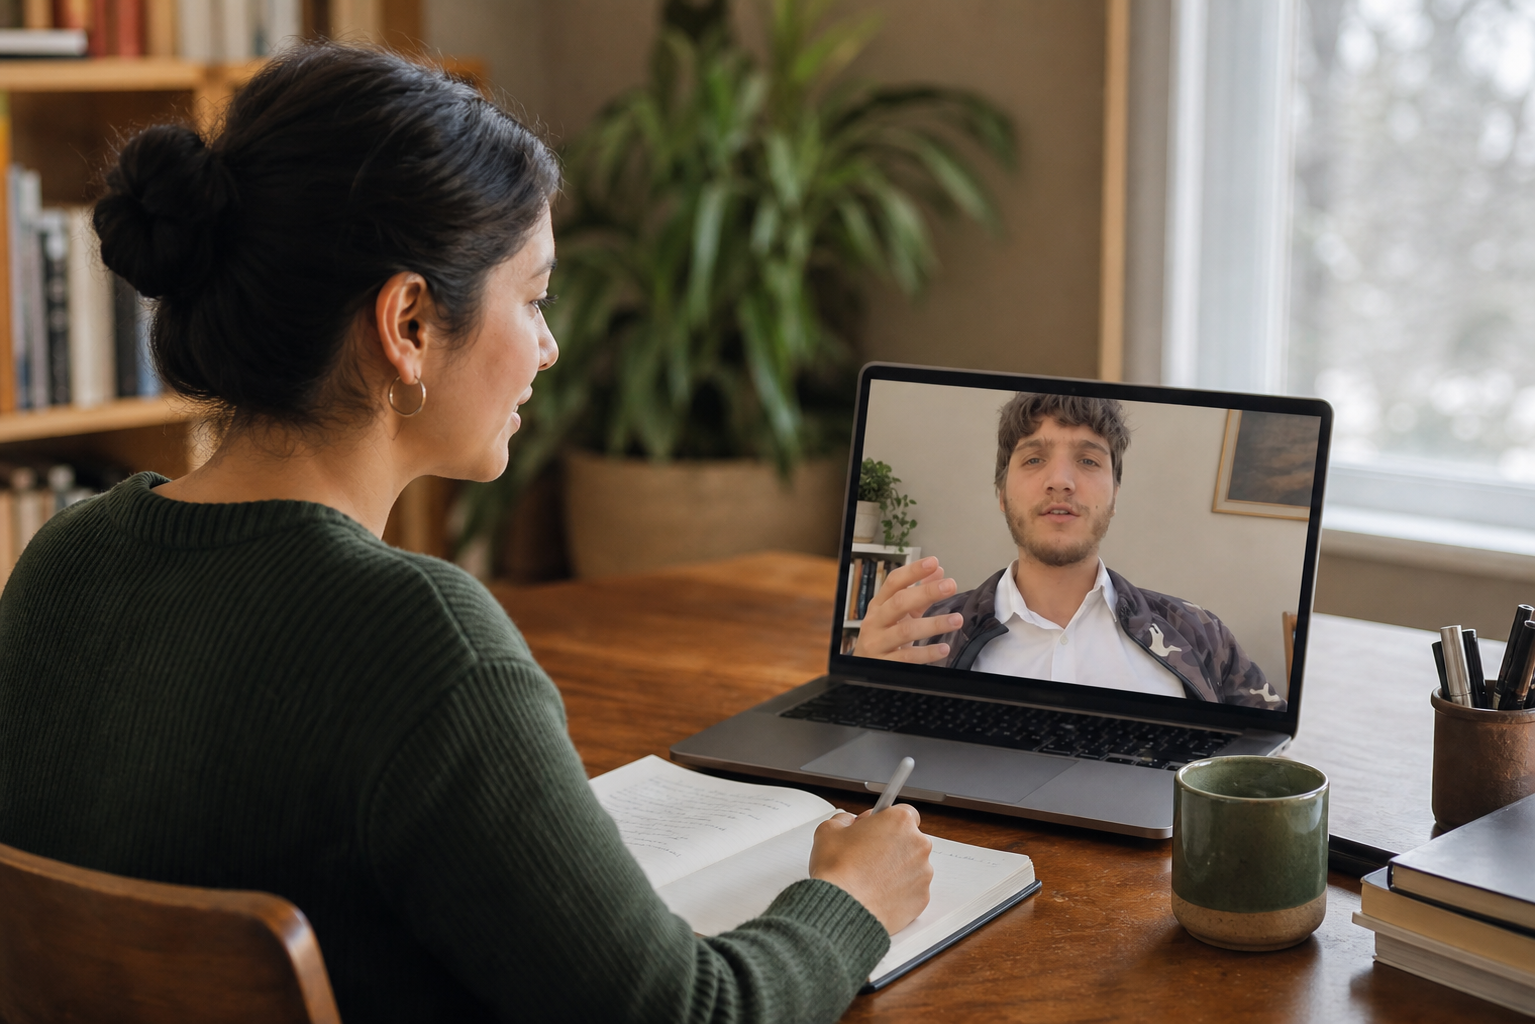
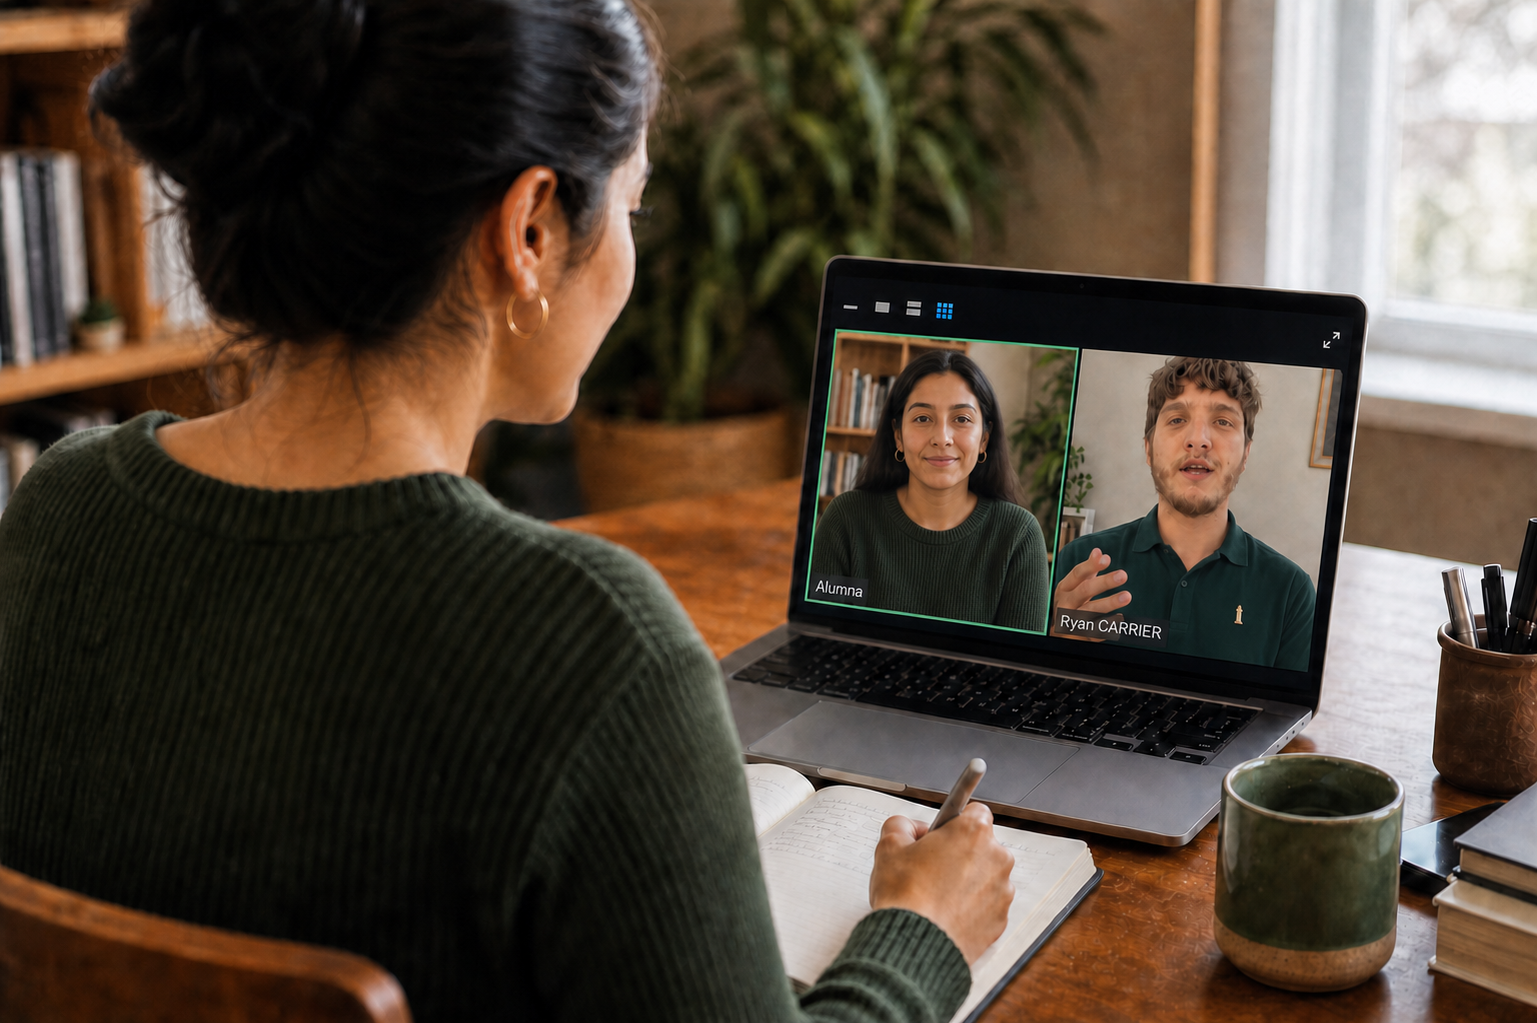
Update live lesson hero image

diff --git a/pathway-v2.css b/pathway-v2.css
@@ -248,7 +248,7 @@ button { font: inherit; }
 .experience-card h3 { max-width: 680px; margin: auto 0 .55rem; font-family: var(--font-display); font-size: clamp(1.55rem, 2.8vw, 2.9rem); font-weight: 600; line-height: .98; letter-spacing: -.04em; }
 .experience-card p { max-width: 520px; margin: 0; font-size: .82rem; line-height: 1.55; opacity: .72; }
 .experience-main { position: relative; isolation: isolate; overflow: hidden; grid-column: span 7; grid-row: span 2; background: var(--mint); }
-.experience-main::before { content: ""; position: absolute; z-index: -1; inset: 0 0 0 42%; background: url("assets/pathway-live-class-teacher.png") 55% center / cover no-repeat; opacity: .65; -webkit-mask-image: linear-gradient(90deg, transparent, #000 32%); mask-image: linear-gradient(90deg, transparent, #000 32%); }
+.experience-main::before { content: ""; position: absolute; z-index: -1; inset: 0 0 0 42%; background: url("assets/pathway-live-class-teacher.png?v=20260815-live-class-grid") 55% center / cover no-repeat; opacity: .65; -webkit-mask-image: linear-gradient(90deg, transparent, #000 32%); mask-image: linear-gradient(90deg, transparent, #000 32%); }
 .experience-main h3, .experience-main p { max-width: 62%; }
 .experience-coral { grid-column: span 5; background: var(--coral); }
 .experience-lime { grid-column: span 5; background: var(--lime); }

diff --git a/index-v2.html b/index-v2.html
@@ -18,7 +18,7 @@
   <link rel="preconnect" href="https://fonts.googleapis.com">
   <link rel="preconnect" href="https://fonts.gstatic.com" crossorigin>
   <link href="https://fonts.googleapis.com/css2?family=DM+Sans:wght@400;500;600;700&family=Outfit:wght@400;500;600;700&display=swap" rel="stylesheet">
-  <link rel="stylesheet" href="pathway-v2.css?v=20260815-testimonials-compact">
+  <link rel="stylesheet" href="pathway-v2.css?v=20260815-live-class-grid">
   <script src="site-config.js"></script>
   <script>
     document.documentElement.classList.add('brand-palette');
@@ -72,7 +72,7 @@
 
         <figure class="lesson-card">
           <div class="lesson-image-wrap">
-            <img src="assets/pathway-live-class-teacher.png" alt="Un profesor de Pathway imparte una clase privada de francés por videollamada a una alumna latinoamericana">
+            <img src="assets/pathway-live-class-teacher.png?v=20260815-live-class-grid" alt="Una alumna latinoamericana toma notas durante una clase privada de francés por videollamada con su profesor de Pathway">
             <span class="live-badge"><i></i> Clase en vivo</span>
           </div>
           <figcaption class="lesson-caption">
